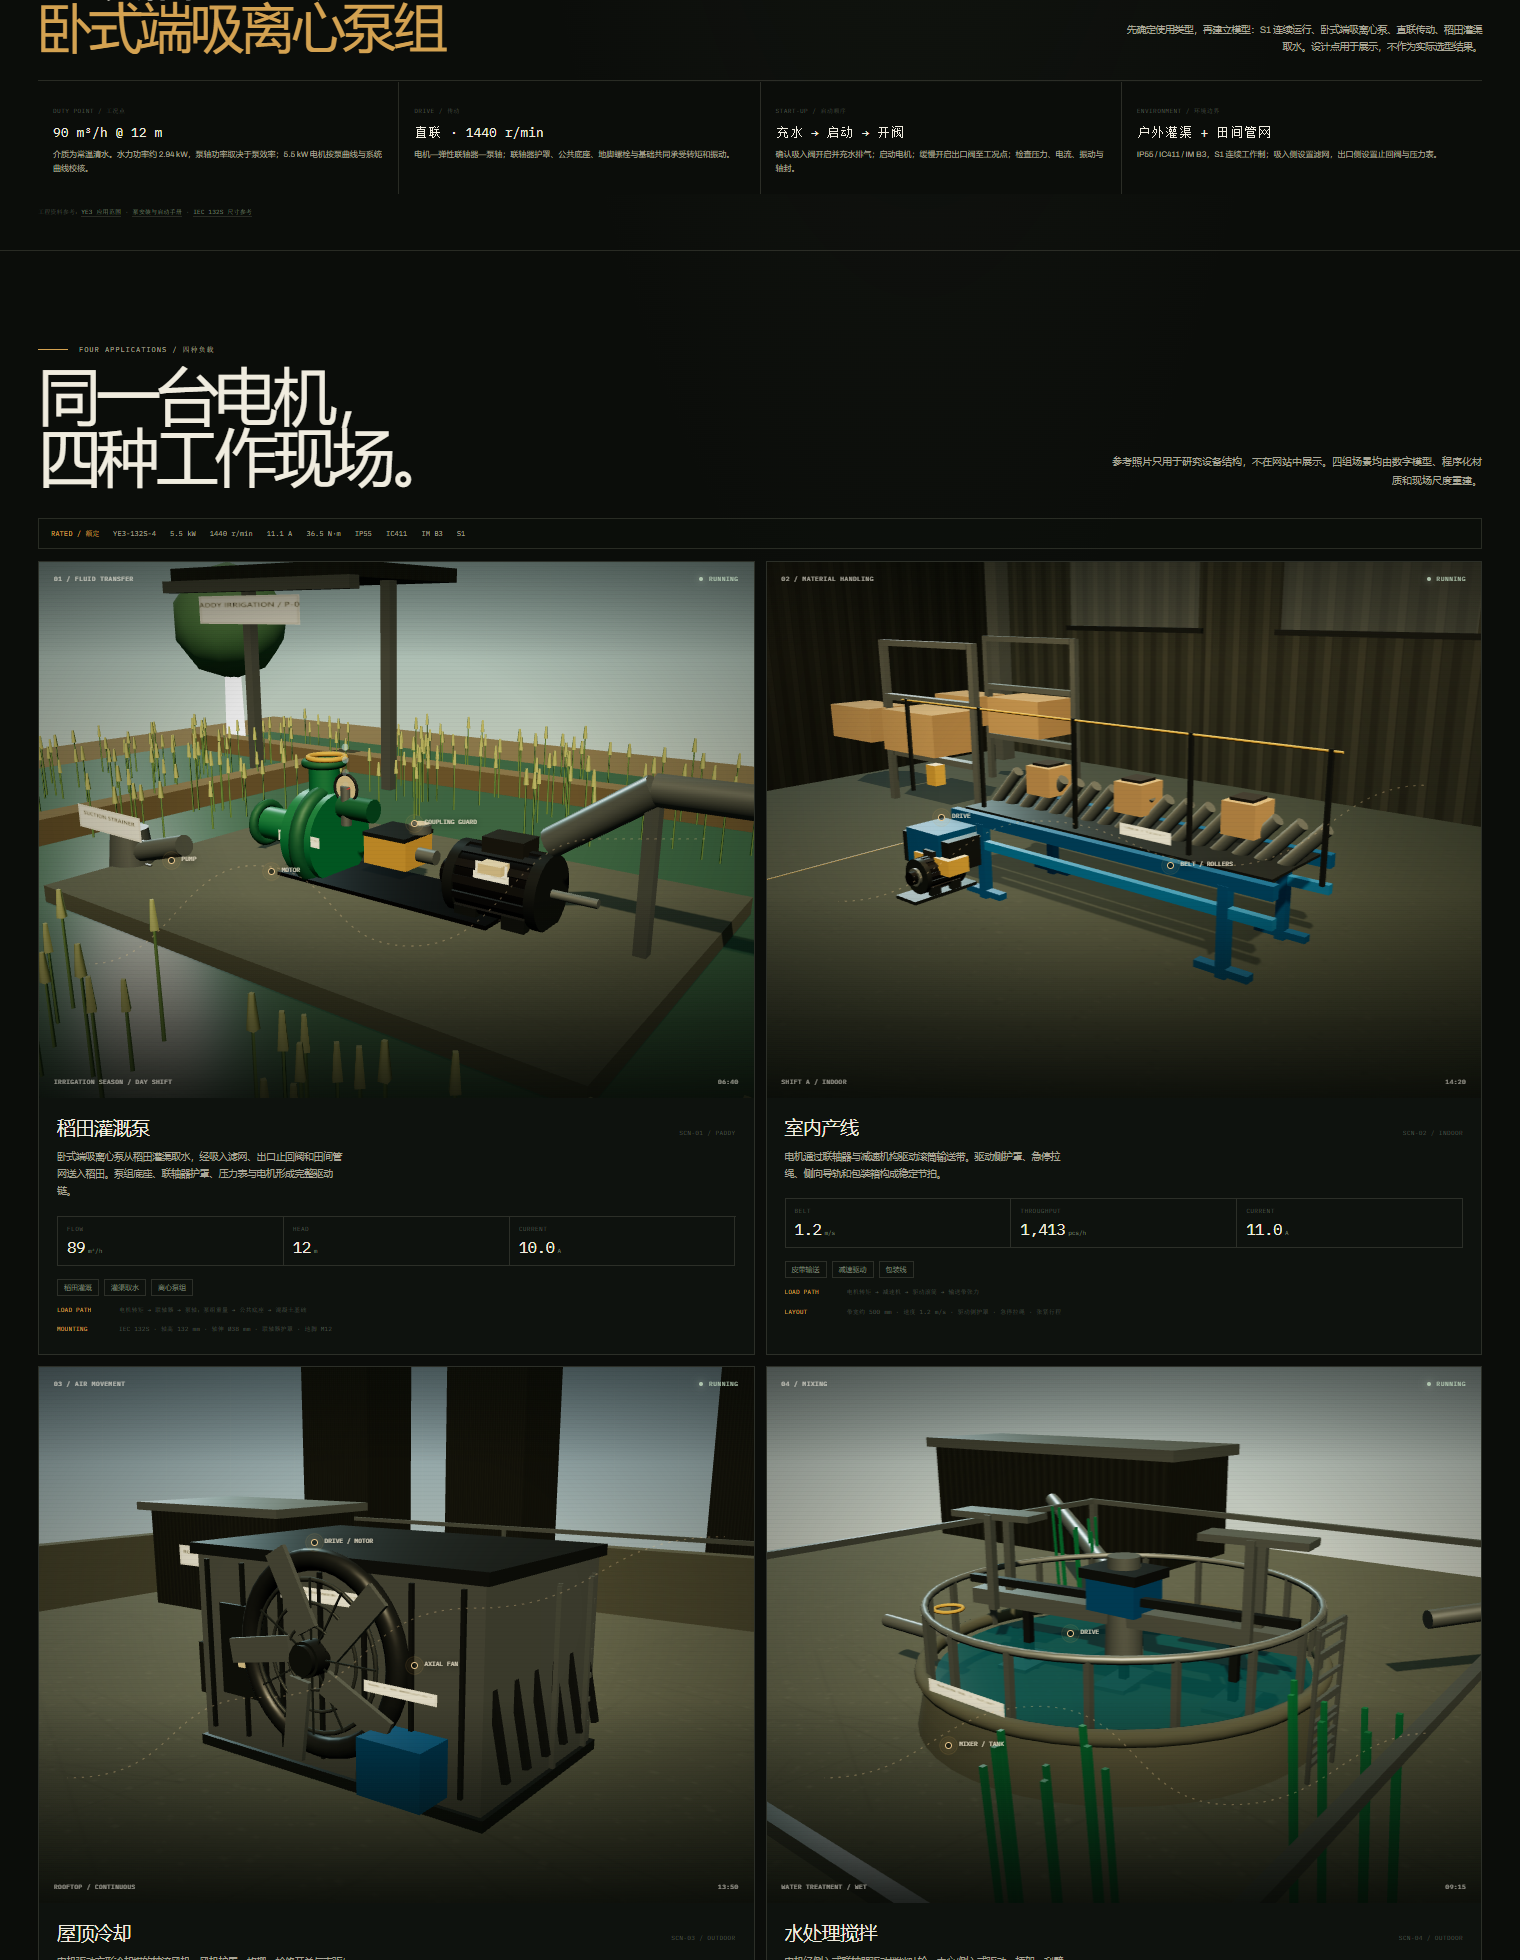
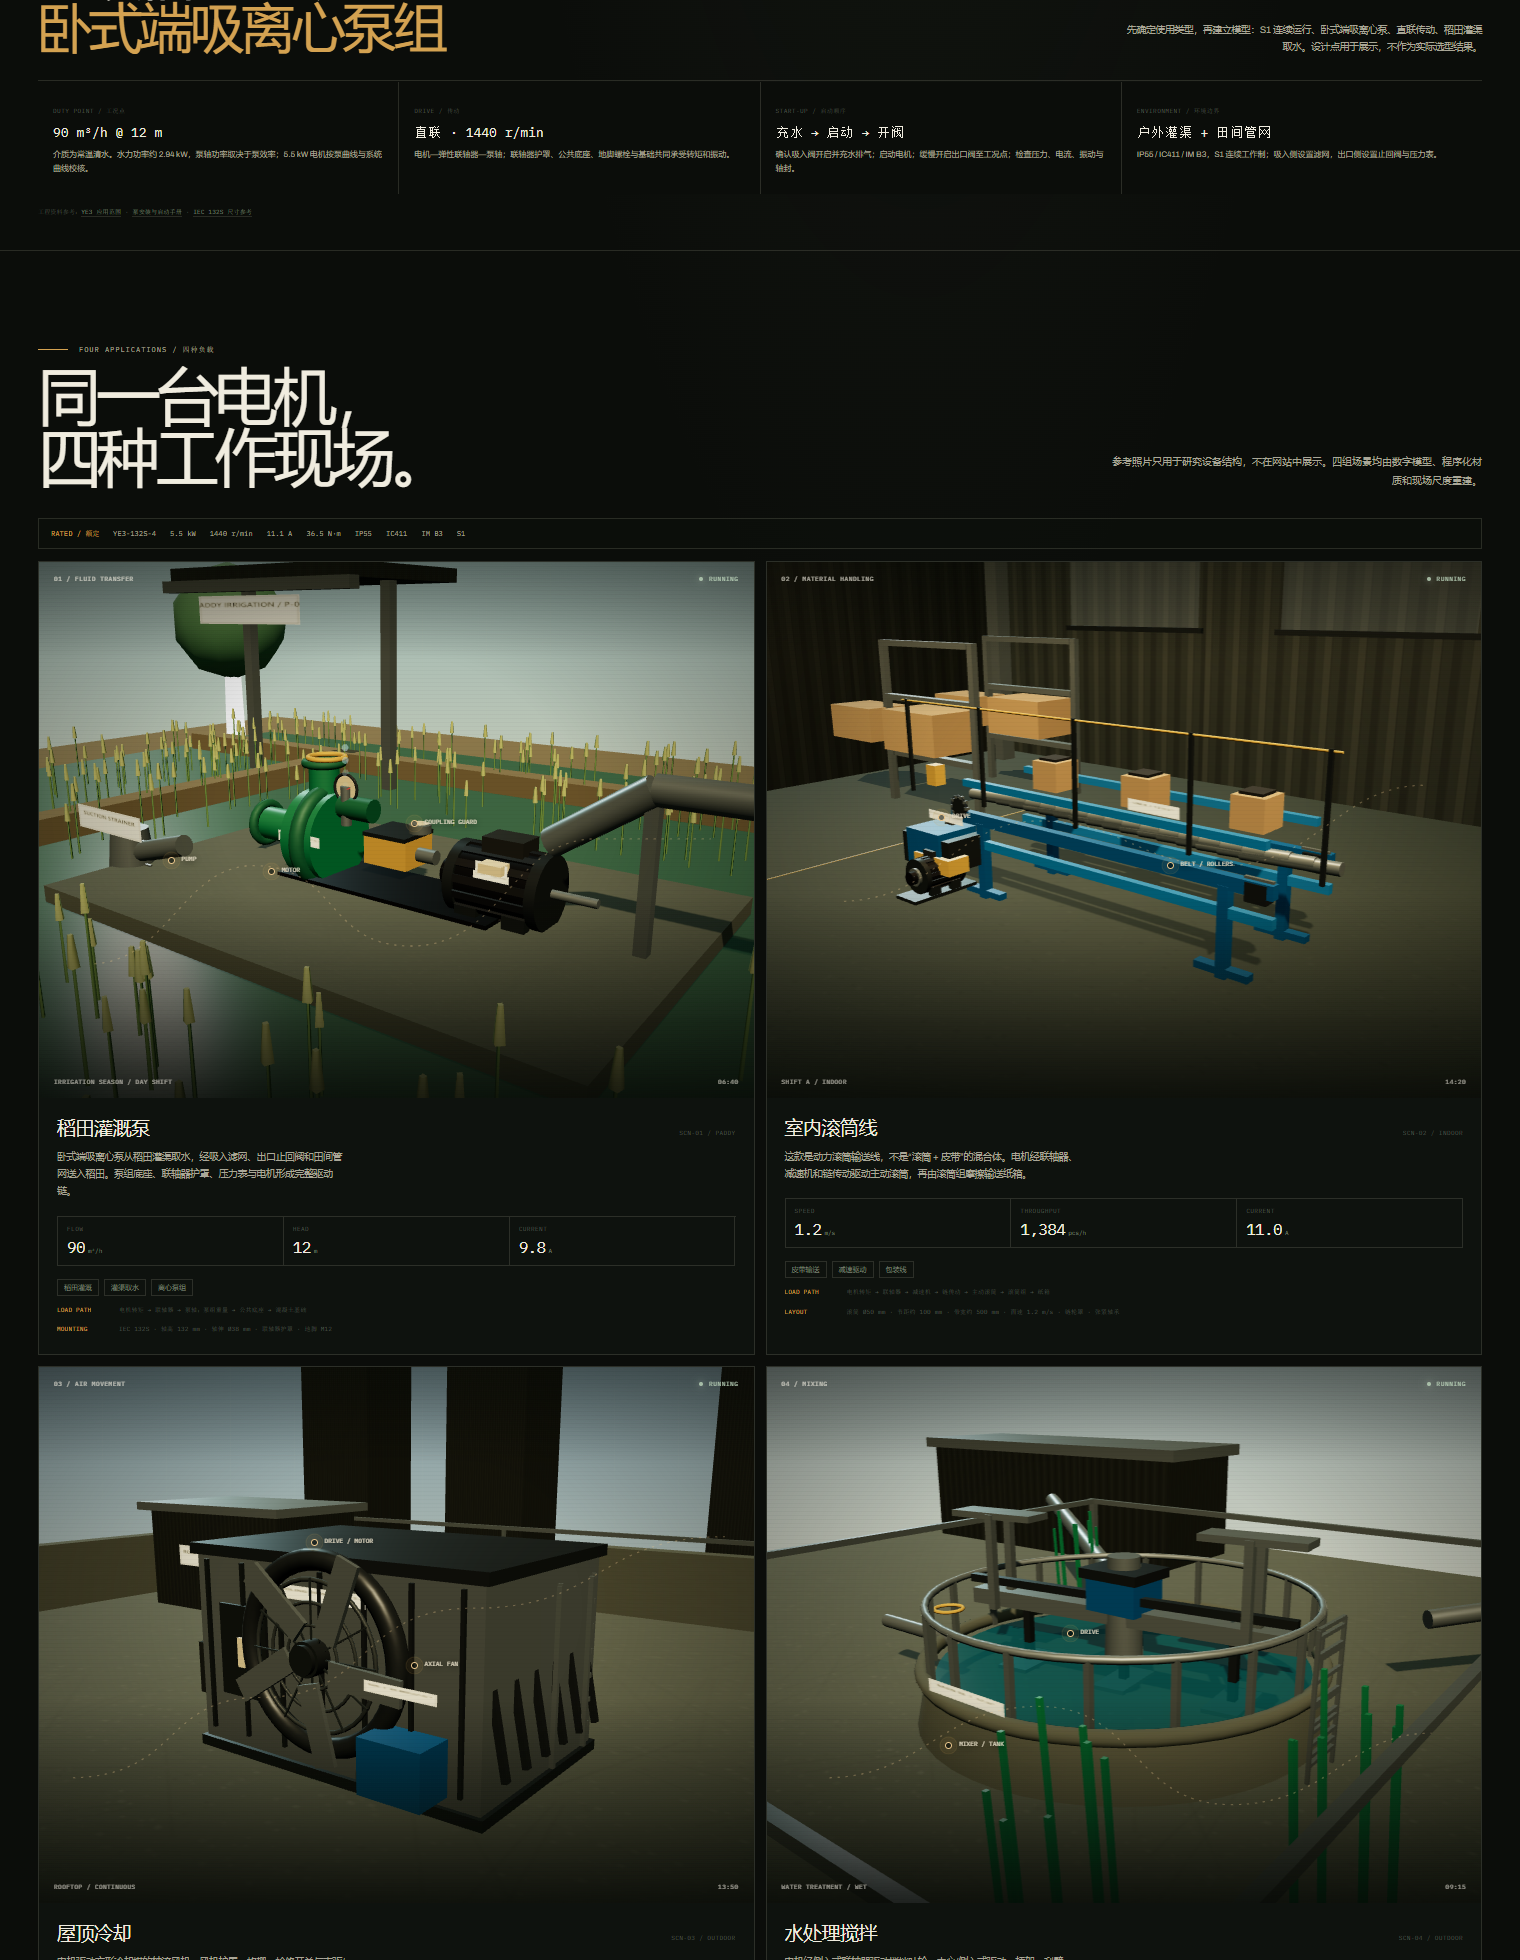
Correct conveyor to a chain-driven powered roller line

diff --git a/src/scenarios/scenes3d.js b/src/scenarios/scenes3d.js
@@ -451,7 +451,36 @@ function makeConveyor() {
     const r = cyl(g, 0.036, 0.036, 0.56, M.steel, x, 0.58, 0, Math.PI / 2, 0, Math.PI / 2, true, 14);
     rollers.push(r);
   }
-  box(g, 2.25, 0.014, 0.52, M.darkSteel, 0, 0.555, 0);
+  // Powered roller conveyor: side guides, chain drive and take-up bearings.
+  for (const z of [-0.27, 0.27]) box(g, 2.2, 0.045, 0.045, M.blueLight, 0, 0.73, z, 0, 0, 0, false);
+  const sprocketA = new THREE.Group();
+  const sprocketB = new THREE.Group();
+  sprocketA.position.set(-1.08, 0.58, 0.34);
+  sprocketB.position.set(-1.13, 0.42, 0.39);
+  for (const sp of [sprocketA, sprocketB]) {
+    cyl(sp, 0.065, 0.065, 0.025, M.darkSteel, 0, 0, 0, Math.PI / 2, 0, 0, false, 18);
+    for (let i = 0; i < 10; i++) {
+      const a = (i / 10) * TAU;
+      box(sp, 0.018, 0.018, 0.03, M.steel, Math.cos(a) * 0.068, Math.sin(a) * 0.068, 0, 0, 0, 0, false);
+    }
+    g.add(sp);
+  }
+  const chainPoints = [];
+  for (let i = 0; i < 20; i++) {
+    const a = (i / 20) * TAU;
+    chainPoints.push(new THREE.Vector3(-1.08 + Math.cos(a) * 0.075, 0.58 + Math.sin(a) * 0.075, 0.35));
+  }
+  for (let i = 0; i < 20; i++) {
+    const a = Math.PI + (i / 20) * TAU;
+    chainPoints.push(new THREE.Vector3(-1.13 + Math.cos(a) * 0.075, 0.42 + Math.sin(a) * 0.075, 0.35));
+  }
+  chainPoints.push(chainPoints[0]);
+  const chain = new THREE.Line(
+    new THREE.BufferGeometry().setFromPoints(chainPoints),
+    new THREE.LineBasicMaterial({ color: 0x272b29 }),
+  );
+  g.add(chain);
+  addLabel(g, 'CHAIN DRIVE / GUARD', 0.34, 0.06, -1.13, 0.52, 0.42);
   // Drive side: gearbox, motor and coupling guard.
   box(g, 0.32, 0.26, 0.3, M.blue, -1.13, 0.34, 0.46);
   const motor = makeMotor(0.6);
@@ -459,7 +488,12 @@ function makeConveyor() {
   motor.rotation.y = Math.PI / 2;
   g.add(motor);
   box(g, 0.34, 0.1, 0.16, M.yellow, -1.03, 0.28, 0.55);
-  addLabel(g, 'LINE B  /  1.2 m·s⁻¹', 0.34, 0.065, 0.42, 0.68, 0.345);
+  addLabel(g, 'LINE B  /  1.2 m·s⁻¹', 0.34, 0.065, 0.42, 0.8, 0.275);
+  // Take-up bearing blocks at the non-drive end.
+  for (const z of [-0.3, 0.3]) {
+    box(g, 0.12, 0.1, 0.08, M.darkSteel, 1.08, 0.5, z);
+    box(g, 0.16, 0.02, 0.02, M.steel, 1.08, 0.56, z, 0, 0, 0, false);
+  }
   // E-stop, pull cord and drive guard are the safety details visible on a real line.
   box(g, 0.09, 0.13, 0.08, M.yellow, -1.24, 0.78, 0.39);
   box(g, 0.055, 0.055, 0.012, new THREE.MeshBasicMaterial({ color: 0xb34034 }), -1.24, 0.8, 0.346, 0, 0, 0, false);
@@ -472,7 +506,7 @@ function makeConveyor() {
     const p = new THREE.Group();
     box(p, 0.2, 0.18, 0.2, M.cardboard, 0, 0.09, 0);
     box(p, 0.14, 0.015, 0.14, M.rubber, 0, 0.19, 0);
-    p.position.set(-0.75 + i * 0.72, 0.68, 0);
+    p.position.set(-0.75 + i * 0.72, 0.72, 0);
     g.add(p);
     packages.push(p);
   }
@@ -686,9 +720,9 @@ class ReferenceScene {
     }
     if (this.type === 'conveyor') {
       const { packages, rollers } = this.model.userData;
-      rollers.forEach((r) => { r.rotation.y += dt * 5; });
+      rollers.forEach((r) => { r.rotateOnWorldAxis(new THREE.Vector3(0, 0, 1), dt * 5); });
       packages.forEach((p) => {
-        p.position.x += dt * 0.32;
+        p.position.x += dt * 0.36;
         if (p.position.x > 1.05) p.position.x = -1.1;
       });
     }

diff --git a/scenarios/index.html b/scenarios/index.html
@@ -116,16 +116,16 @@
             <div class="visual-foot"><span>SHIFT A / INDOOR</span><span data-live="conveyor-time">14:20</span></div>
           </div>
           <div class="copy">
-            <div class="copy-head"><h3>室内产线</h3><span>SCN-02 / INDOOR</span></div>
-            <p>电机通过联轴器与减速机构驱动滚筒输送带。驱动侧护罩、急停拉绳、侧向导轨和包装箱构成稳定节拍。</p>
+            <div class="copy-head"><h3>室内滚筒线</h3><span>SCN-02 / INDOOR</span></div>
+            <p>这款是动力滚筒输送线，不是“滚筒 + 皮带”的混合体。电机经联轴器、减速机和链传动驱动主动滚筒，再由滚筒组摩擦输送纸箱。</p>
             <div class="metrics">
-              <div><span>BELT</span><b data-live="conveyor-belt">1.2</b><em>m/s</em></div>
+              <div><span>SPEED</span><b data-live="conveyor-belt">1.2</b><em>m/s</em></div>
               <div><span>THROUGHPUT</span><b data-live="conveyor-rate">1,400</b><em>pcs/h</em></div>
               <div><span>CURRENT</span><b data-live="conveyor-current">11.0</b><em>A</em></div>
             </div>
             <div class="tags"><span>皮带输送</span><span>减速驱动</span><span>包装线</span></div>
-            <div class="mech-note"><span>LOAD PATH</span>电机转矩 → 减速机 → 驱动滚筒 → 输送带张力</div>
-            <div class="mech-note"><span>LAYOUT</span>带宽约 500 mm · 速度 1.2 m/s · 驱动侧护罩 · 急停拉绳 · 张紧行程</div>
+            <div class="mech-note"><span>LOAD PATH</span>电机转矩 → 联轴器 → 减速机 → 链传动 → 主动滚筒 → 滚筒组 → 纸箱</div>
+            <div class="mech-note"><span>LAYOUT</span>滚筒 Ø50 mm · 节距约 100 mm · 带宽约 500 mm · 面速 1.2 m/s · 链轮罩 · 张紧轴承</div>
           </div>
         </article>
 
